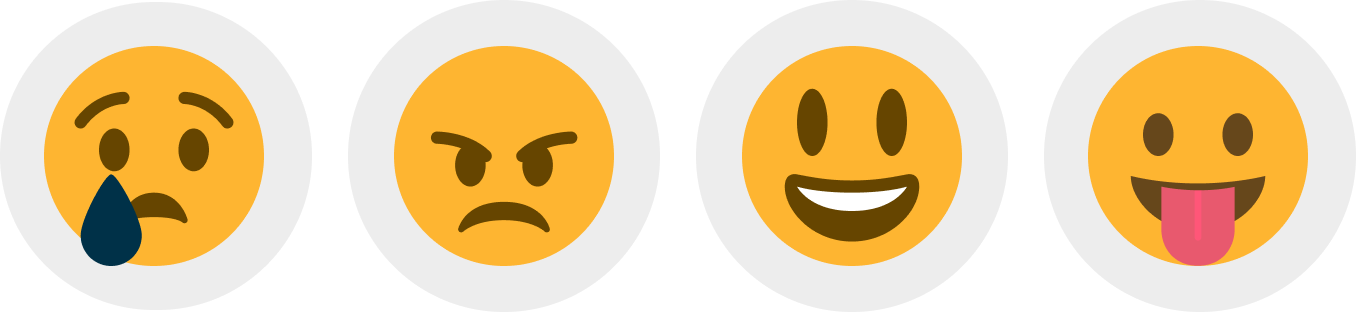
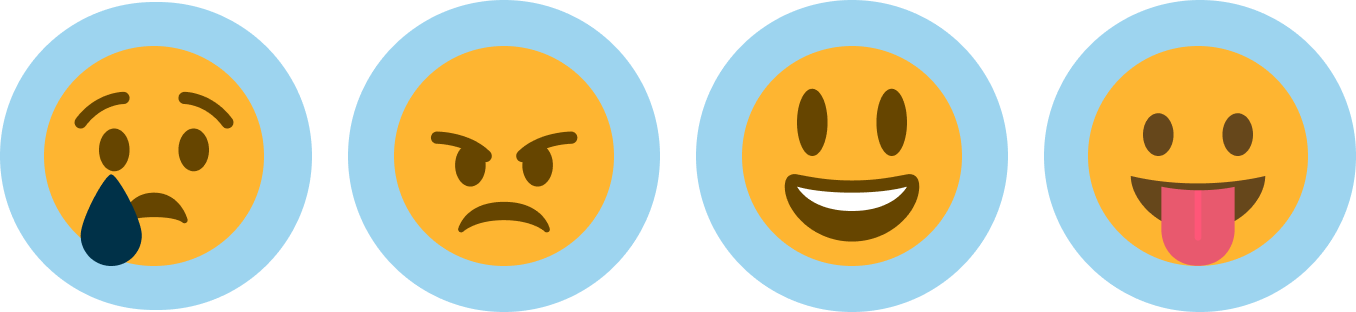
finished sign in and sign up page

diff --git a/MobileDev/MindBridge/app/(auth)/sign-up.jsx b/MobileDev/MindBridge/app/(auth)/sign-up.jsx
@@ -24,10 +24,10 @@ const Signup = () =>{
         }}>
             <View>
                 <Text style={formStyles.formHeader}>
-                    Welcome Back!
+                    Let’s get started
                 </Text>
                 <Text style={formStyles.formText}>
-                    It’s good to have you here again. Let’s {'\n'} continue your journey.
+                    Join <Text style={formStyles.span}>MindBridge</Text> and begin tracking your mood {'\n'} today.
                 </Text>
             </View>
 
@@ -39,7 +39,28 @@ const Signup = () =>{
                 </Text>
                 <InputComponent placeholder={"Enter your username"}/>
             </View>
-
+            <View style={{
+                marginTop: 10,
+            }}>
+                <Text style={formStyles.label}>
+                    Email Address
+                </Text>
+                <InputComponent 
+                placeholder={"you@example.com"}
+                keyboardType={"email-address"}
+                />
+            </View>
+            <View style={{
+                marginTop: 10,
+            }}>
+                <Text style={formStyles.label}>
+                    Phone Number
+                </Text>
+                <InputComponent 
+                placeholder={"+234"}
+                keyboardType={"number-pad"}
+                />
+            </View>
             <View style={{
                 marginTop: 10,
             }}>
@@ -65,23 +86,40 @@ const Signup = () =>{
                     setPasswordVisible(!passwordVisible)
                 }}/>
                 <Text style={{
-                        fontFamily: 'poppinsRegular',
-                        fontSize: '10',
-                    }}>
+                    fontFamily: 'poppinsRegular',
+                    fontSize: '10',
+                }}>
                     Must contain at least a uppercase, a lowercase, a character
                 </Text>
             </View>
             <View style={{
-                alignSelf: 'right'
+                marginTop: 10,
             }}>
-                <Text>
-                    Forgot your password?
+                <Text style={formStyles.label}>
+                   Confirm Password
                 </Text>
+                <TextInput style={formStyles.inputPassword} 
+                placeholder="Enter Password"
+                placeholderTextColor= '#AFAFAF'
+                returnKeyType="done"
+                secureTextEntry={!passwordVisible}
+                onChangeText={(password)=>{
+                    setPassword(password)
+                }}
+                />
+                <Image style={{
+                    width: 16,
+                    height: 16,
+                    position: "absolute",
+                    top: 40,
+                    left: 370,
+                }} source={require('../../assets/images/eye-alt.png')} onPress={() =>{
+                    setPasswordVisible(!passwordVisible)
+                }}/>
             </View>
-            
 
             <View style={{
-                marginTop: 300,
+                marginTop: 50,
             }}>
                 <Button text={'Create Account'}/>
             </View>
@@ -93,7 +131,7 @@ const Signup = () =>{
                     color: '#002131',
                 }}>
                     Already have an account? <Text style={formStyles.span} onPress={()=>{
-                        router.push('./sign-up')
+                        router.push('./sign-in')
                     }} >Sign-In</Text>
                 </Text>
             </View>

diff --git a/MobileDev/MindBridge/components/InputComponent.jsx b/MobileDev/MindBridge/components/InputComponent.jsx
@@ -1,0 +1,44 @@
+import { Platform, Text, TextInput, View } from "react-native";
+
+
+
+
+const InputComponent = ({placeholder, onChangeText, keyboardType='default'}) => {
+    return(
+
+        <View>
+            <TextInput style={{
+                width: 400,
+                height: 46,
+                backgroundColor: "#F9F8F8",
+                paddingBottom: 12, 
+                paddingTop: 12, 
+                paddingRight: 16, 
+                paddingLeft: 20, 
+                borderRadius: 6,
+                borderBottom: 1,
+                
+                ...Platform.select({
+                    ios: {
+                        shadowColor: '#0031484D',
+                        shadowOffset: {width: 2, height: 2},
+                        shadowOpacity: 0.75,
+                        shadowRadius: .5,
+                    },
+                    android: {
+                        elevation: 5,
+                    }
+                })
+            }}placeholder={placeholder}
+            placeholderTextColor="#AFAFAF"
+            onChangeText={onChangeText}
+            keyboardType={keyboardType}
+            returnKeyType="done" 
+            secureTextEntry={true}/>
+        </View>
+        
+            
+    )
+}
+
+export default InputComponent;

diff --git a/MobileDev/MindBridge/app/onboarding3.jsx b/MobileDev/MindBridge/app/onboarding3.jsx
@@ -21,7 +21,7 @@ const ThirdOnboarding = ()=>{
                 flexDirection: 'row',
                 alignItems: 'center',
                 }} onPress={() =>{
-                router.push('./sign-in')
+                router.push('./sign-up')
                 }}>
                     <Text style={{
                         fontFamily: 'poppinsSemiBold'
@@ -67,7 +67,7 @@ const ThirdOnboarding = ()=>{
                </Text>
 
                <Button text={'Next'} onPress={() =>{
-                router.push('./login')
+                router.push('./sign-up')
             }}/>
 
             </View>

diff --git a/MobileDev/MindBridge/app/onboarding2.jsx b/MobileDev/MindBridge/app/onboarding2.jsx
@@ -28,7 +28,7 @@ const SecondOnboarding = ()=>{
                 flexDirection: 'row',
                 alignItems: 'center',
                 }} onPress={() =>{
-                router.push('./login')
+                router.push('./sign-up')
                 }}>
                     <Text style={{
                         fontFamily: 'poppinsSemiBold'

diff --git a/MobileDev/MindBridge/app/onboarding.jsx b/MobileDev/MindBridge/app/onboarding.jsx
@@ -28,7 +28,7 @@ const Onboarding = ()=>{
                 flexDirection: 'row',
                 alignItems: 'center',
                 }} onPress={() =>{
-                router.push('./login')
+                router.push('.sign-up')
                 }}>
                     <Text style={{
                         fontFamily: 'poppinsSemiBold'

diff --git a/MobileDev/MindBridge/app/Splash.jsx b/MobileDev/MindBridge/app/Splash.jsx
@@ -6,7 +6,7 @@ import { COLORS, SIZES } from "../themes/theme";
 const Splash = ()=> {
     return(
         <SafeAreaView style={{
-            backgroundColor: COLORS.backgroundColor ,
+            backgroundColor: '#9DD4EF' ,
             flex: 1,
             alignItems: 'center',
             justifyContent: 'center'

diff --git a/MobileDev/MindBridge/app/(auth)/_layout.jsx b/MobileDev/MindBridge/app/(auth)/_layout.jsx
@@ -2,8 +2,9 @@ import { Stack } from "expo-router";
 
 const AuthLayout = () =>{
     return(
-        <Stack>
-            <Stack.Screen name="login"/>
+        <Stack screenOptions={{headerShown: false}}>
+            <Stack.Screen name="sign-up"/>
+            <Stack.Screen name="sign-in"/>
         </Stack>
     )
 }

diff --git a/MobileDev/MindBridge/themes/theme.js b/MobileDev/MindBridge/themes/theme.js
@@ -3,6 +3,7 @@
 
 const COLORS = {
     backgroundColor: '#FFFFFF',
+    splashColor: '#9DD4EF',
     textColor: '#0C2F40',
     neutralColor: "#09202B",
     white: "#FFFFFF",
@@ -18,6 +19,7 @@ const SIZES = {
     medium: 24,
     regular: 18,
     small: 16,
+    extraSmall: 14,
 }
 
 export {COLORS, SIZES}
